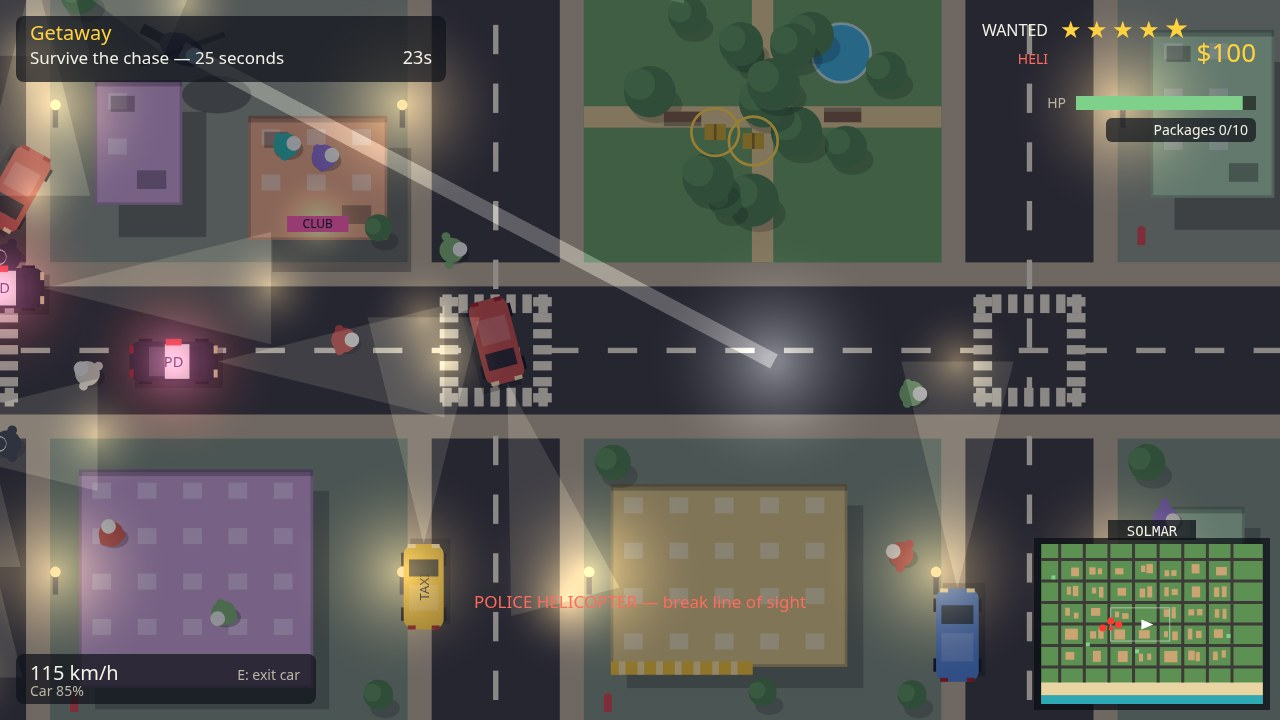
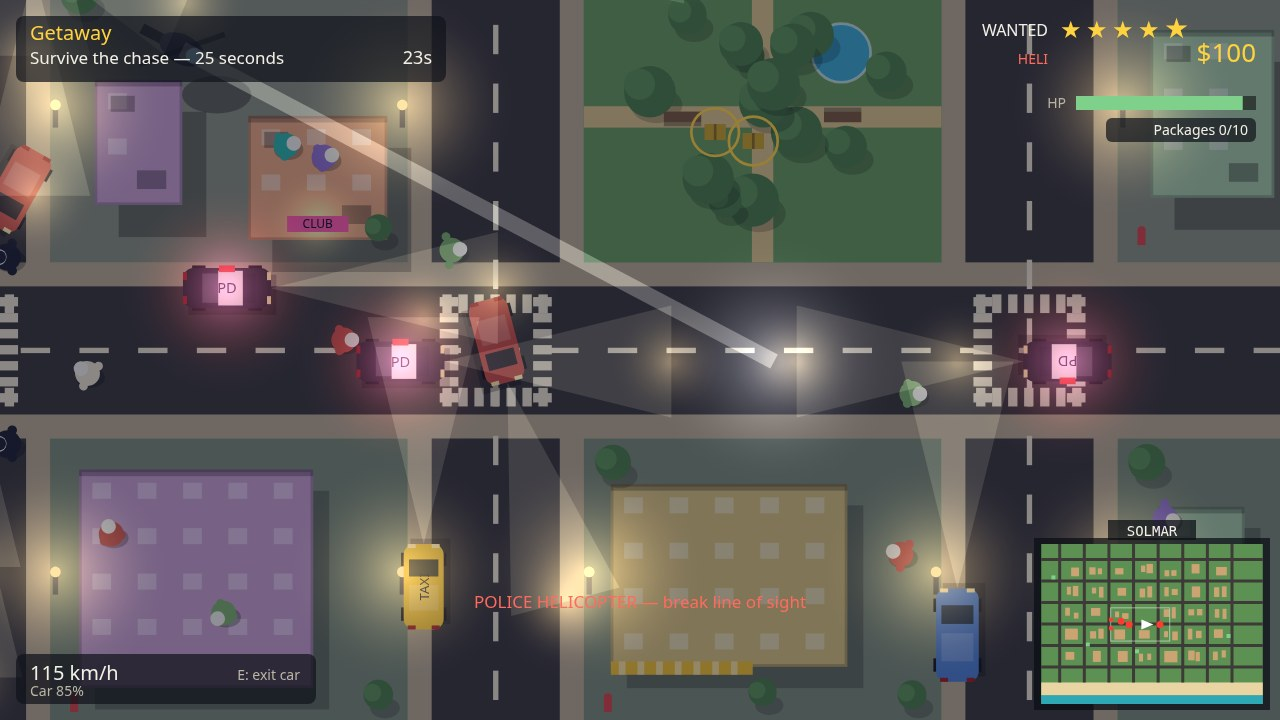
Solmar v3: fairer Marina hold, denser cover chase

Changed region(s): [[0.0, 0.3056, 0.5625, 0.6722], [0.5938, 0.3972, 0.9062, 0.5806], [0.8438, 0.8556, 0.9062, 0.8861]]

diff --git a/game/src/shots.js b/game/src/shots.js
@@ -114,14 +114,15 @@ export function stageShot(name, world) {
       if (i === Math.floor(steps / 2)) clearRoute(w, 1300, 0, 3600, 150);
       return driveControls(w, 3100, 1300);
     });
-    // The police spawn 700 away and close in over time; put the first three behind
-    // the player so the chase reads in the frame.
+    // The police spawn 700 away and close in over time; put four of them in
+    // the frame — two tight behind the player, two closing in from ahead.
     const car = world.player.car;
-    world.policeCars.slice(0, 3).forEach((policeCar, i) => {
-      policeCar.x = car.x - 450 - i * 130;
-      policeCar.y = car.y + (i === 1 ? -55 : i === 2 ? 55 : 0);
-      policeCar.angle = 0;
-      policeCar.vx = 420;
+    world.policeCars.slice(0, 4).forEach((policeCar, i) => {
+      const ahead = i >= 2;
+      policeCar.x = car.x + (ahead ? 220 + (i - 2) * 110 : -280 - i * 130);
+      policeCar.y = car.y + (i === 1 ? -55 : i === 3 ? 55 : 0);
+      policeCar.angle = ahead ? Math.PI : 0;
+      policeCar.vx = ahead ? -420 : 420;
       policeCar.vy = 0;
     });
     return { screen: SCREEN_PLAY };

diff --git a/game/src/missions.js b/game/src/missions.js
@@ -48,7 +48,7 @@ export const MISSIONS = [
     reward: 1200,
     steps: [
       { type: 'goto', text: 'Get to the marina warehouse', x: null, y: null, place: 'marina', radius: 90 },
-      { type: 'hold', text: 'Hold the warehouse — 20 seconds', seconds: 20, wanted: 3, place: 'marina' },
+      { type: 'hold', text: 'Hold the warehouse — 15 seconds', seconds: 15, wanted: 3, place: 'marina' },
       { type: 'goto', text: 'Escape to the garage', x: null, y: null, place: 'garage', radius: 90 },
     ],
   },

diff --git a/game/src/police.js b/game/src/police.js
@@ -114,7 +114,7 @@ function stepPoliceCar(w, car, dt) {
       car.ramTimer = 0.5;
       player.car.vx += Math.cos(car.angle) * 260;
       player.car.vy += Math.sin(car.angle) * 260;
-      damageCar(w, player.car, 6);
+      damageCar(w, player.car, 2);
       w.effects.addShake(3);
     }
   }
